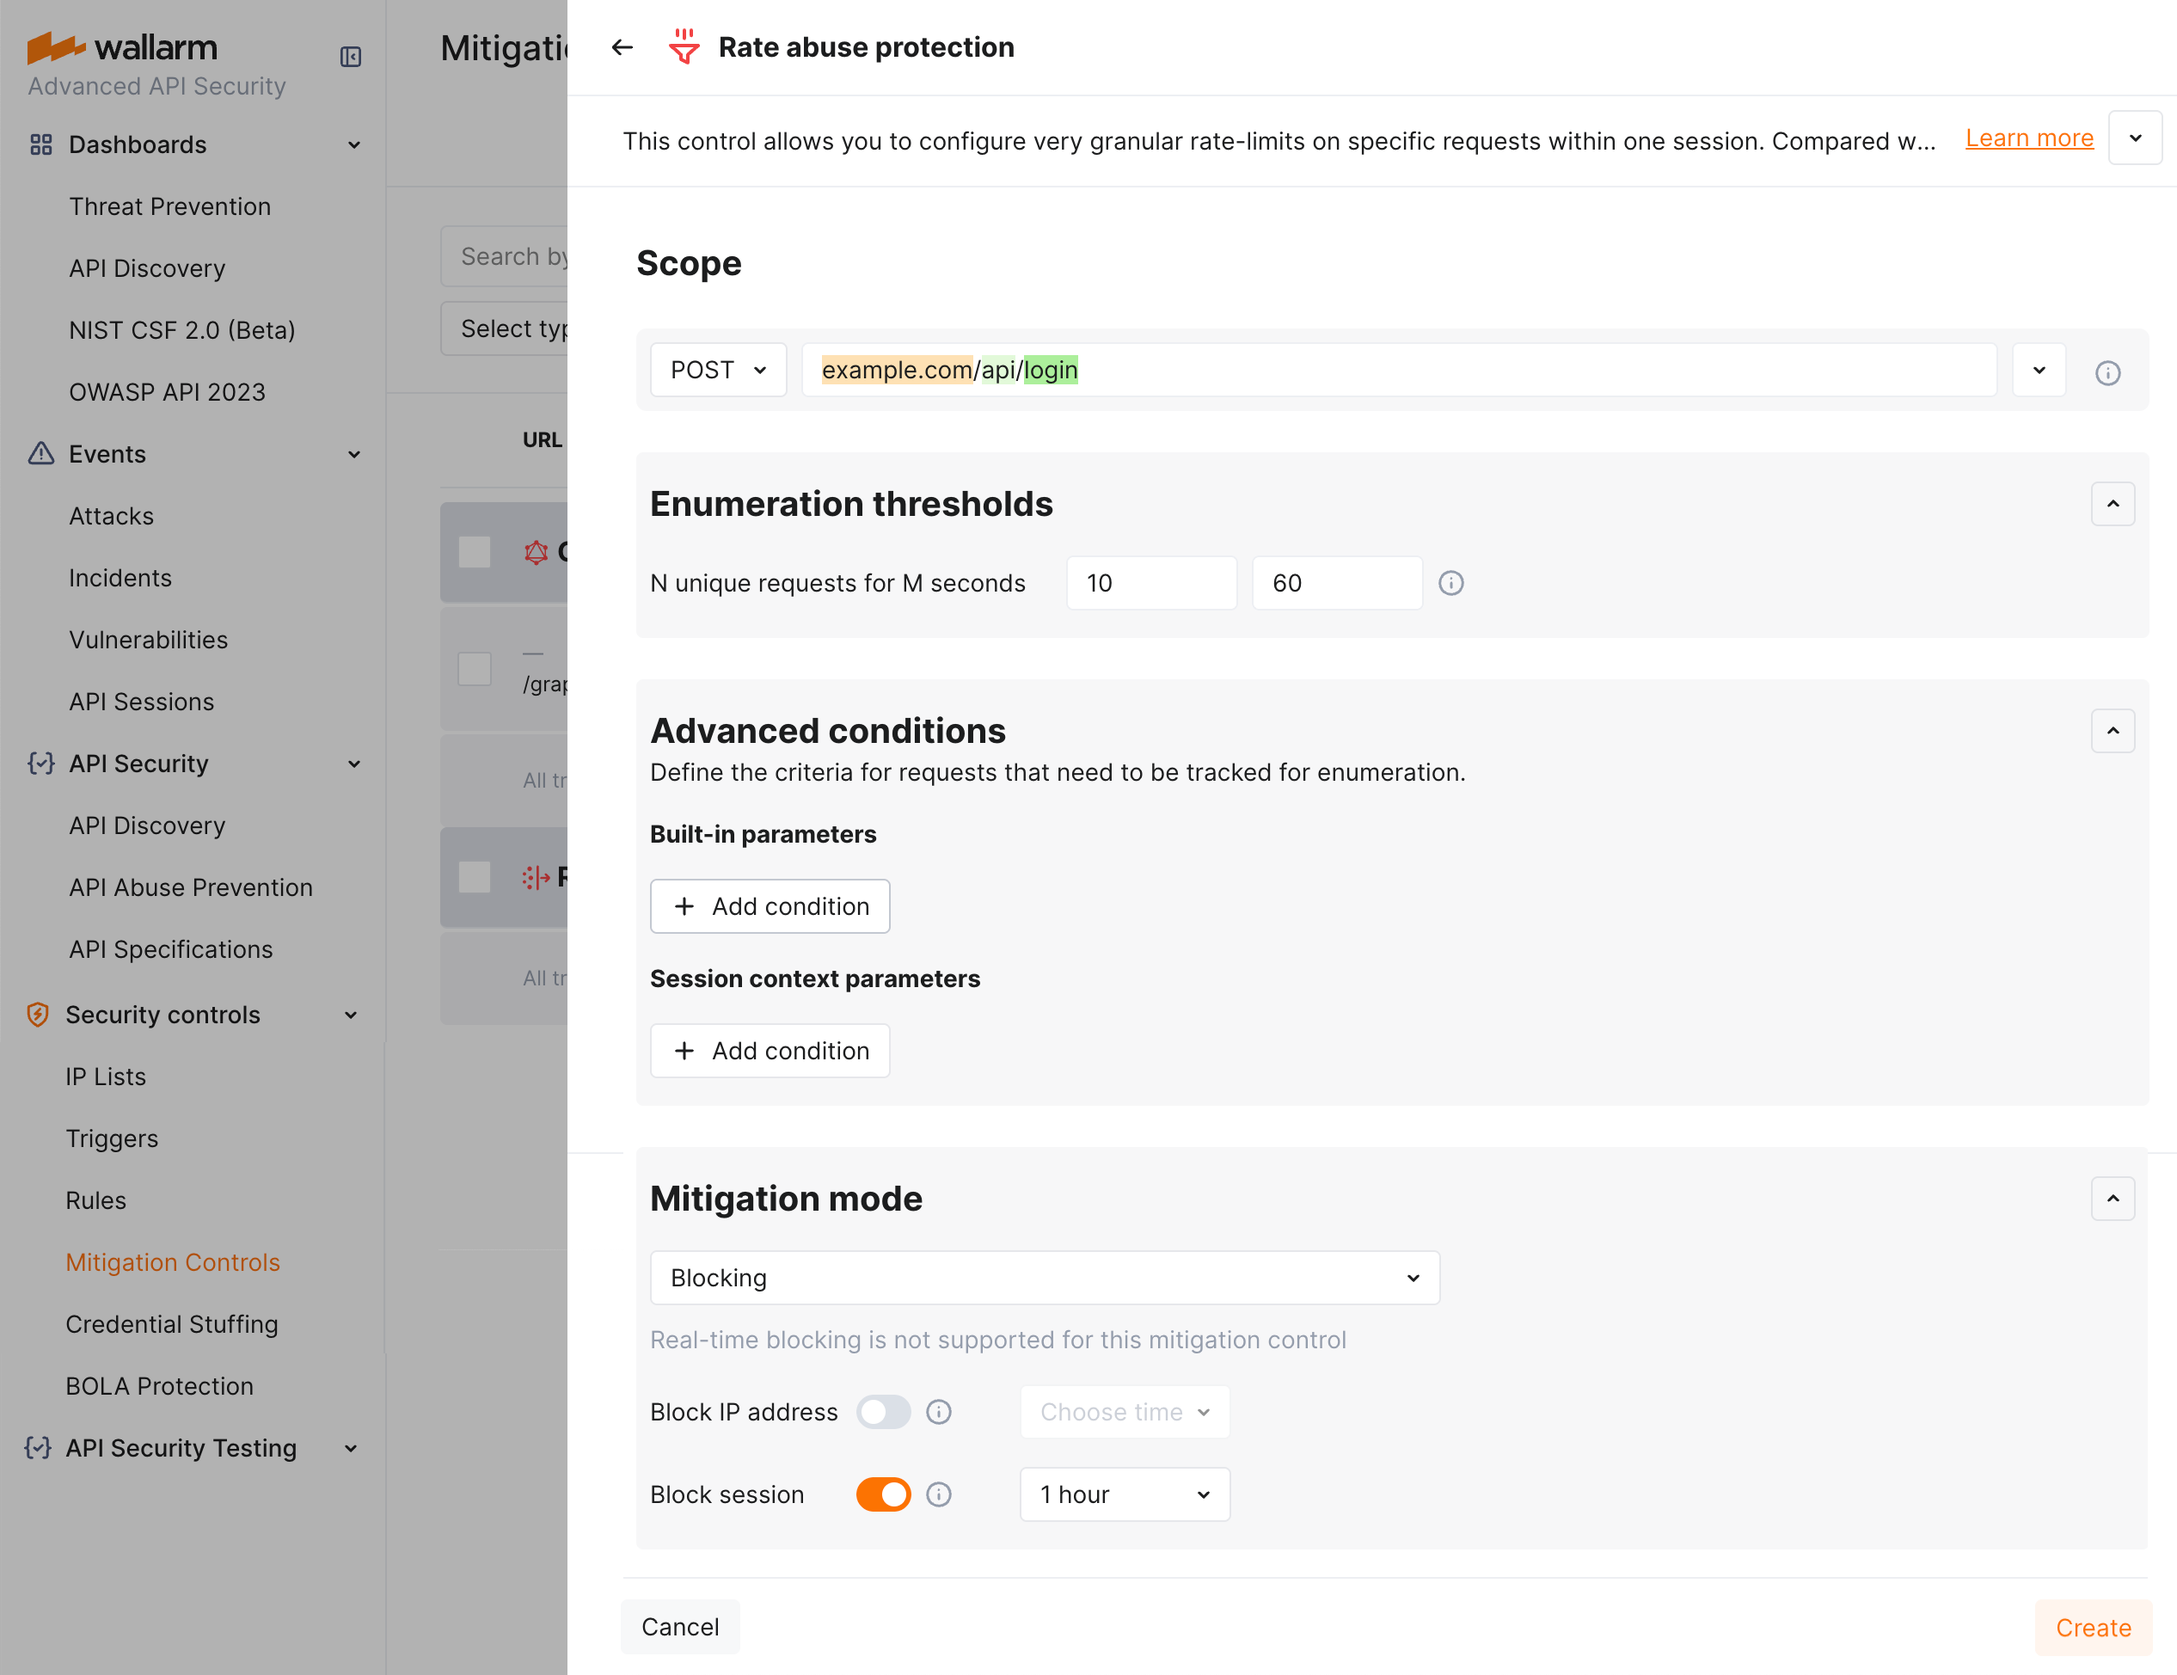
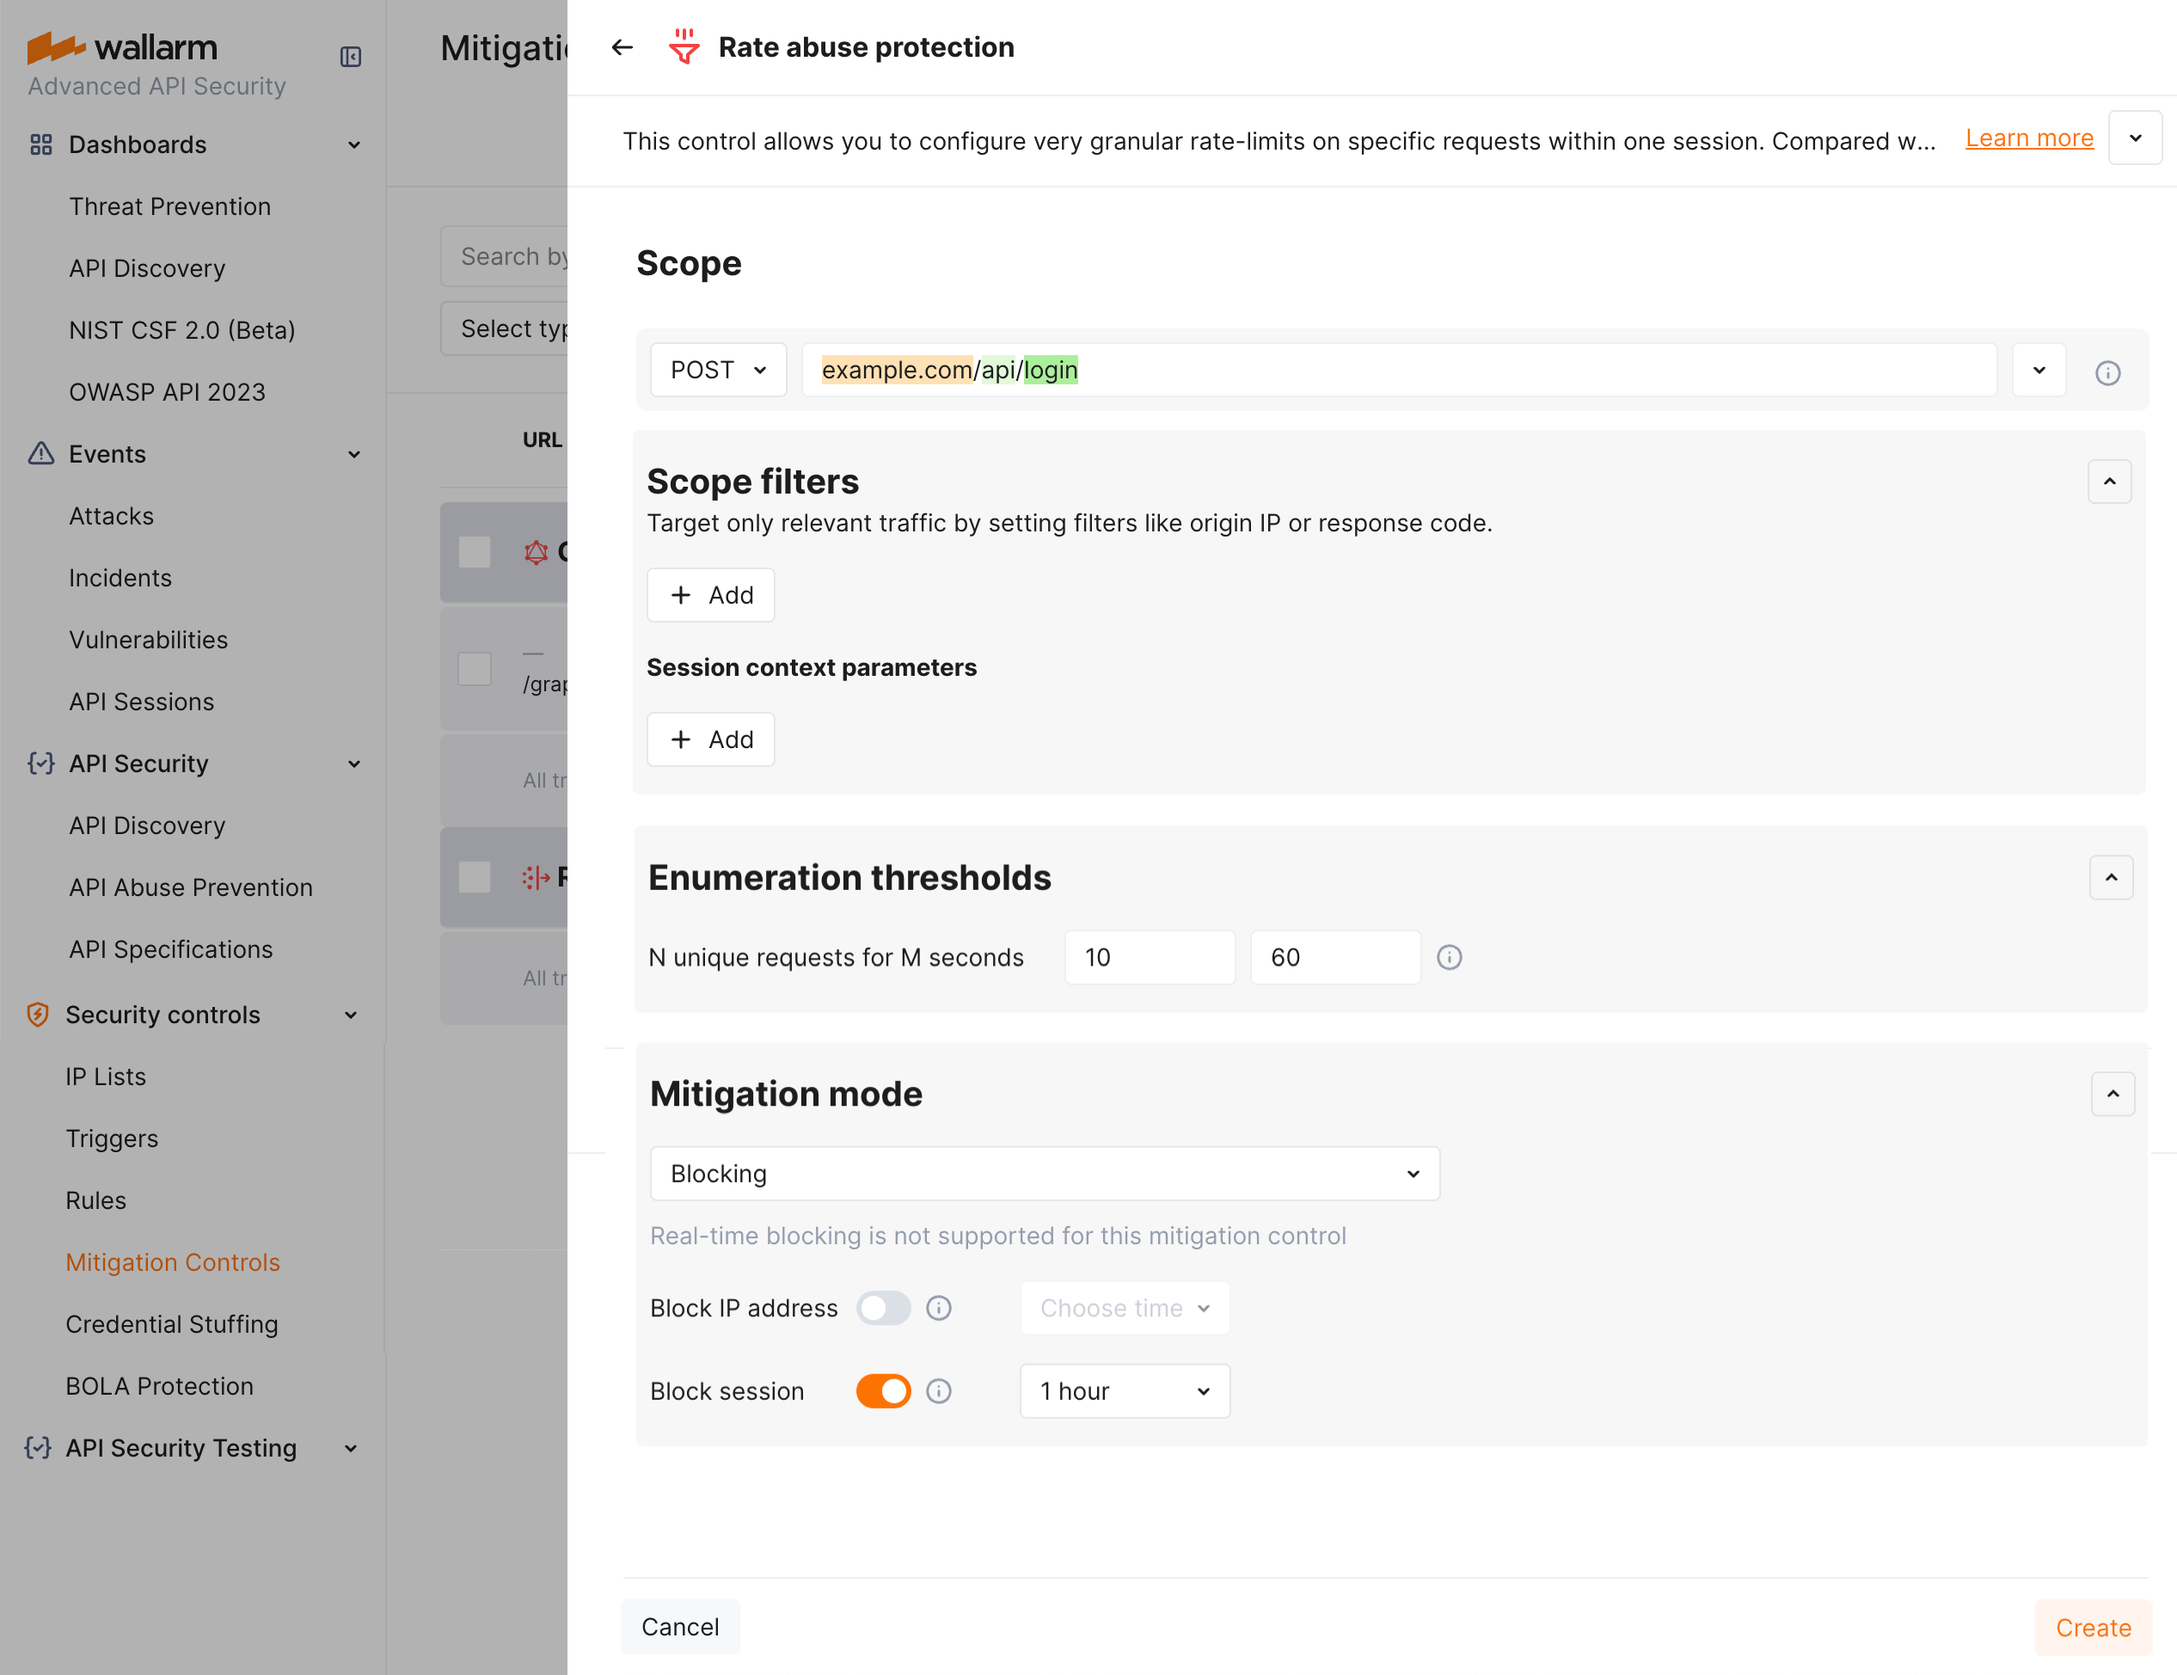
DOCS-2966 Fixes due to UI changes

diff --git a/docs/latest/api-protection/enumeration-attack-protection.md b/docs/latest/api-protection/enumeration-attack-protection.md
@@ -53,7 +53,7 @@ Configure enumeration protection fulfilling the following steps:
 * Define **Scope** to apply control to (endpoints, only specific requests).
 * Select **Enumerated parameters** - ones to be tracked for enumeration attempts.
 * Set **Enumeration threshold** - control will act if threshold is exceeded.
-* If scope does not cover all your needs, set **Advanced conditions**.
+* If scope does not cover all your needs, set **Scope filters**.
 * Set action in **Mitigation mode**.
 
 Note that you can use [regular expressions](#regular-expressions) to set scope and advanced conditions and select parameters tracked for enumeration.
@@ -63,6 +63,18 @@ Note that you can use [regular expressions](#regular-expressions) to set scope a
 **Scope** defines which requests the control applies to (based on URI and other parameters). It’s configured the same way as request conditions in rules. See details [here](../user-guides/rules/rules.md#configuring).
 
 If you leave the **Scope** section blank, mitigation control is applied to **all traffic** and **all applications**; such controls are inherited by all [branches](#mitigation-control-branches).
+
+### Scope filters 
+
+If [Scope](#scope) does not cover all your needs, you can define other conditions that requests must meet to be covered by the protection mechanism.
+
+As conditions, you can use values or value patters of:
+
+* Built-in parameters of requests - elements of meta information presented in each request handled by Wallarm filtering node.
+* **Session context parameters** - quickly select parameters from the list of ones, that were [defined as important](../api-sessions/setup.md#session-context) in **API Sessions**. Use the **Add custom** option in this section to add as filters the parameters that are currently not presented in **API Sessions**. If you do so, these parameters will be added to **API Sessions**' context parameters as well.
+
+!!! info "Performance note"
+    As **Scope** settings are less demanding from the productivity perspective, it is always recommended to use them if it is enough for your goals, and only use **Scope filters** for the complex conditioning.
 
 ### Enumerated parameters
 
@@ -83,18 +95,6 @@ Once threshold is reached by any of parameters, Wallarm performs action in accor
 **Forced browsing protection**
 
 This protection counts the number of unique endpoints accessed in a configured timeframe (in seconds). Once threshold is reached, Wallarm performs action in accordance with the [Mitigation mode](#mitigation-mode).
-
-### Advanced conditions 
-
-If [Scope](#scope) does not cover all your needs, you can define other conditions that requests must meet to be covered by the protection mechanism.
-
-As conditions, you can use values or value patters of:
-
-* **Built-in parameters** meta information presented in each request handled by Wallarm filtering node.
-* **Session context parameters** - quickly select parameters from the list of ones, that were [defined as important](../api-sessions/setup.md#session-context) in **API Sessions**. Use the **Add custom** option in this section to add as filters the parameters that are currently not presented in **API Sessions**. If you do so, these parameters will be added to **API Sessions**' context parameters as well.
-
-!!! info "Performance note"
-    As **Scope** settings are less demanding from the productivity perspective, it is always recommended to use them if it is enough for your goals, and only use **Advanced conditions** for the complex conditioning.
 
 ### Mitigation mode
 

diff --git a/docs/latest/about-wallarm/mitigation-controls-overview.md b/docs/latest/about-wallarm/mitigation-controls-overview.md
@@ -59,7 +59,7 @@ Besides [Scope](#scope), mitigation control may include other conditions that de
 * For [GraphQL API protection](../api-protection/graphql-rule.md) they are policy positions - control will act only if any of them is violated by request.
 * For [Enumeration attack protection](../api-protection/enumeration-attack-protection.md), they are multiple parameters of requests - control will act only if all specified parameters/values are met.
 
-For some controls, like [Enumeration attack protection](../api-protection/enumeration-attack-protection.md) or [Rate abuse protection](../api-protection/rate-abuse-protection.md), in the **Advanced condition** section, you can use the **session context parameters** to quickly select parameters from the list of ones, that were [defined as important](../api-sessions/setup.md#session-context) in **API Sessions**. Use the **Add custom** option in this section to add as filters the parameters that are currently not presented in **API Sessions**. If you do so, these parameters will be added to **API Sessions**' context parameters as well.
+For some controls, like [Enumeration attack protection](../api-protection/enumeration-attack-protection.md) or [Rate abuse protection](../api-protection/rate-abuse-protection.md), in the **Scope filters** section, you can use the **session context parameters** to quickly select parameters from the list of ones, that were [defined as important](../api-sessions/setup.md#session-context) in **API Sessions**. Use the **Add custom** option in this section to add as filters the parameters that are currently not presented in **API Sessions**. If you do so, these parameters will be added to **API Sessions**' context parameters as well.
 
 For specifying advanced conditions, you can use [regular expressions](#regular-expressions).
 
@@ -82,7 +82,7 @@ The list of available modes may vary depending on the particular control.
 
 ### Regular expressions
 
-For specifying different mitigation control parameters, like **Scope**, **Advanced conditions**, and others, you can use regular expressions:
+For specifying different mitigation control parameters, like **Scope**, **Scope filters**, and others, you can use regular expressions:
 
 * The **Scope** section uses PIRE regular expression library. See details on usage [here](../user-guides/rules/rules.md#condition-type-regex-).
 * Other sections use [PCRE](https://www.pcre.org/). Use the following operators to involve regular expression:

diff --git a/docs/latest/api-protection/rate-abuse-protection.md b/docs/latest/api-protection/rate-abuse-protection.md
@@ -8,15 +8,15 @@ Requires [NGINX Node](../installation/nginx-native-node-internals.md#nginx-node)
 
 ## Creating and applying mitigation control
 
-Before proceeding: use the [Mitigation Controls](../about-wallarm/mitigation-controls-overview.md#configuration) article to get familiar with how **Scope**, **Advanced conditions** and **Mitigation mode** are set for any mitigation control.
+Before proceeding: use the [Mitigation Controls](../about-wallarm/mitigation-controls-overview.md#configuration) article to get familiar with how **Scope**, **Scope filters** and **Mitigation mode** are set for any mitigation control.
 
 To configure rate abuse protection:
 
 1. Proceed to Wallarm Console → **Mitigation Controls**.
 1. Use **Add control** → **Rate abuse protection**.
 1. Describe the **Scope** to apply the mitigation control to.
-1. If necessary, define advanced conditions.
-1. Set threshold to count number of requests per time in seconds.
+1. If necessary, define advanced conditions in **Scope filters**.
+1. Set threshold to count number of requests per time interval.
 1. In the **Mitigation mode** section, set action to be done when threshold is exceeded.
 1. Click **Create**.
 
